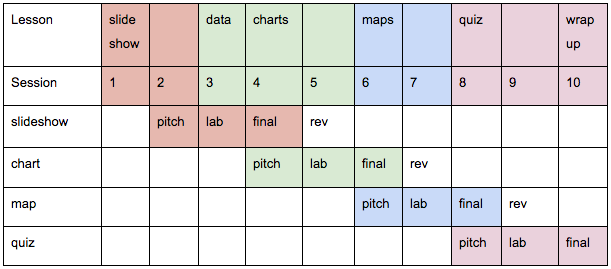
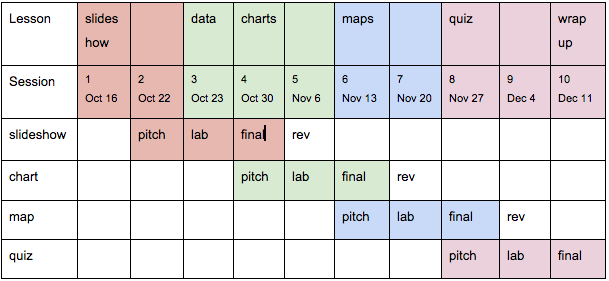
added new syllabus notes

Changed region(s): [[0.0, 0.0, 0.9984, 1.0]]

diff --git a/cuny2014/index.html b/cuny2014/index.html
@@ -158,7 +158,7 @@
             <h1>Lesson Plan</h1>
 
             <div class="lesson">
-                <h2>Week 1 | Oct. 16</h2>
+                <h2>Session 1 | Oct. 16</h2>
             
                 <p><b>LECTURE & DISCUSSION</b></p>
     
@@ -179,7 +179,7 @@
             </div>
             
             <div class="lesson">
-                <h2>Week 2 | Oct. 22</h2>
+                <h2>Session 2 | Oct. 22</h2>
             
                 <p>Slideshows</p>
     
@@ -203,7 +203,7 @@
             </div>
 
             <div class="lesson">
-                <h2>Week 3 | Oct. 23</h2>
+                <h2>Session 3 | Oct. 23</h2>
 
                 <p> Intro to Data Journalism</p>
 
@@ -222,13 +222,13 @@
 
                 <p><b>HOMEWORK</b></p>
 
-                <p>Complete Slideshows for next week. Have your final versions uploaded to the FTP server and submit the URL through this <a href="https://docs.google.com/forms/d/1-4pUtCq6hI1y-22kDBO6JADYFp77F-Q5HxWE28Lr1tA/viewform" target="_blank">Google Form</a>. Due before class begins next week.<br />
+                <p>Complete Slideshows for Monday . Have your final versions uploaded to the FTP server and submit the URL through this <a href="https://docs.google.com/forms/d/1-4pUtCq6hI1y-22kDBO6JADYFp77F-Q5HxWE28Lr1tA/viewform" target="_blank">Google Form</a>. Due before class begins next week.<br />
                 Come up with Chart story pitches and submit them through this <a href="https://docs.google.com/forms/d/1-4pUtCq6hI1y-22kDBO6JADYFp77F-Q5HxWE28Lr1tA/viewform" target="_blank">Google Form</a> before class. Be ready to present on them during class.</p>
             </div>
                 
 
                 <div class="lesson">
-                    <h2>Week 4 | Oct. 30</h2>
+                    <h2>Session 4 | Oct. 30</h2>
     
                     <p> Charting, Numeracy, and Data</p>
     
@@ -251,7 +251,7 @@
                 </div>
 
                 <div class="lesson">
-                    <h2>Week 5 | Nov. 6</h2>
+                    <h2>Session 5 | Nov. 6</h2>
                 
                     <p> Visualizing Data</p>
     
@@ -275,7 +275,7 @@
                 </div>
 
                 <div class="lesson">
-                    <h2>Week 6 | Nov. 13</h2>
+                    <h2>Session 6 | Nov. 13</h2>
 
                     <p>Maps</p>
 
@@ -295,7 +295,7 @@
                 </div>
 
                 <div class="lesson">
-                    <h2>Week 7 | Nov. 20</h2>
+                    <h2>Session 7 | Nov. 20</h2>
                     <p>Maps Lab</p>
 
                     <p><a href="projects.aljazeera.com/2013/syrias-refugees/index.html">Where would 9.5 million displaced Syrians fit?</a> (Al Jazeera America)</p>
@@ -316,7 +316,7 @@
                 </div>
 
                 <div class="lesson">
-                    <h2>Week 8 | Dec. 4</h2>
+                    <h2>Session 8 | Dec. 4</h2>
 
                     <p>Quizzes</p>
 
@@ -337,7 +337,7 @@
 
                 <div class="lesson">
 
-                    <h2>Week 9 | Dec. 11</h2>
+                    <h2>Session 9 | Dec. 11</h2>
 
                     <p>Quiz Lab</p>
 
@@ -351,7 +351,7 @@
                 </div>
 
                 <div class="lesson">
-                    <h2>Week 10 | Dec. 18</h2>
+                    <h2>Session 10 | Dec. 18</h2>
 
                     <p>Onwards</p>
 
